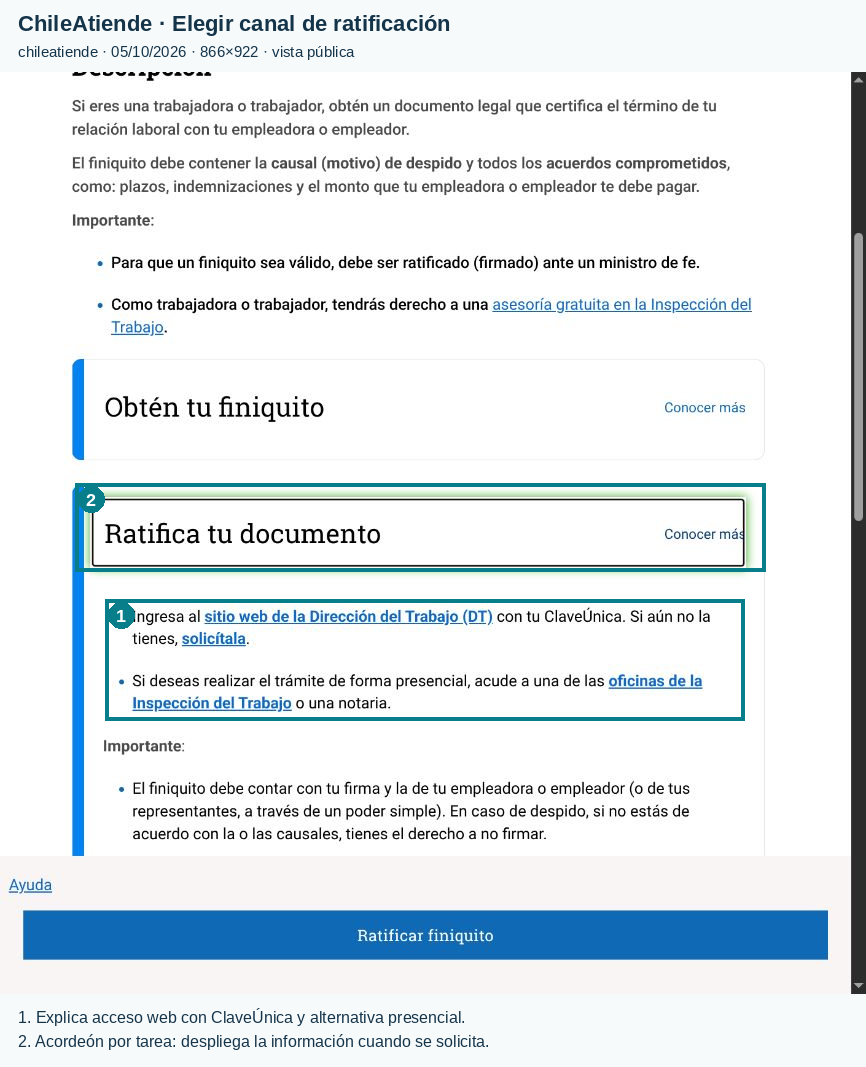
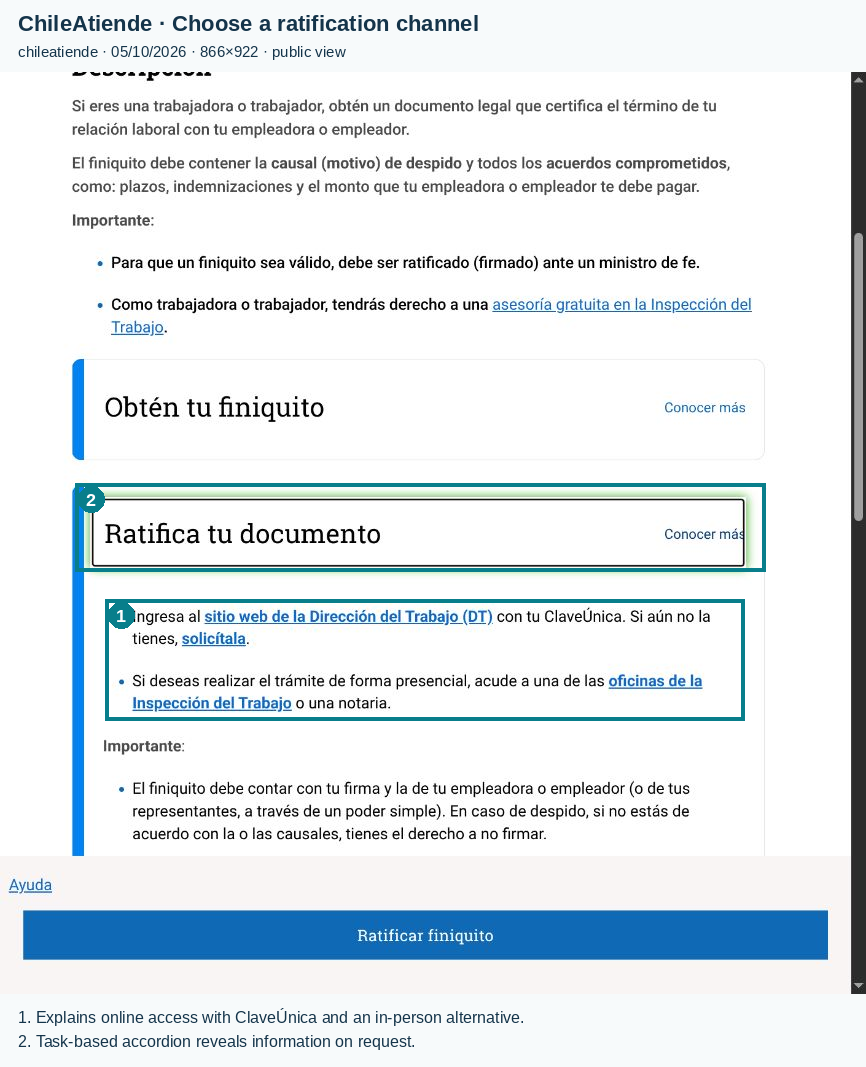
fix: translate benchmark visual annotations into English

Changed region(s): [[0.0312, 0.9278, 0.5924, 0.9897], [0.1871, 0.0, 0.5612, 0.0619]]

diff --git a/scripts/generate_artifacts.py b/scripts/generate_artifacts.py
@@ -53,19 +53,19 @@ def save_svg(path, svg):
 
 CAPTURES = {
 'direccion-trabajo': [
- ('DT · Entrada por tipo de usuario', 'https://www.dt.gob.cl/portal/1626/w3-channel.html', [(160,160,680,432,TEAL),(4,61,850,121,RUST)], ['1. Acceso visible para trabajadores: permite reconocerse por perfil.', '2. Aviso de Clave Tributaria: antecede a la tarea del trabajador (H8).']),
- ('DT · Explicación y requisitos del finiquito', 'https://www.dt.gob.cl/portal/1626/w3-article-117245.html', [(45,420,804,518,TEAL),(43,339,803,379,RUST)], ['1. Distingue trámite web y presencial; permite elegir canal.', '2. «Ministro de fe» aparece sin explicación inmediata (H2).']),
- ('DT · Ayuda y fundamento normativo', 'https://www.dt.gob.cl/portal/1626/w3-article-117245.html', [(40,325,810,428,TEAL),(38,450,810,517,TEAL)], ['1. Ofrece consulta y teléfono: puente visible a atención humana.', '2. Vincula el artículo aplicable, aunque al final de la ficha extensa.'])
+ ('DT · Entry by user profile', 'https://www.dt.gob.cl/portal/1626/w3-channel.html', [(160,160,680,432,TEAL),(4,61,850,121,RUST)], ['1. Visible worker entry helps users recognize their profile.', '2. Tax credential notice appears before the worker task (H8).']),
+ ('DT · Settlement explanation and requirements', 'https://www.dt.gob.cl/portal/1626/w3-article-117245.html', [(45,420,804,518,TEAL),(43,339,803,379,RUST)], ['1. Separates online and in-person procedures to support channel choice.', '2. The term for an attesting official lacks an immediate explanation (H2).']),
+ ('DT · Help and legal evidence', 'https://www.dt.gob.cl/portal/1626/w3-article-117245.html', [(40,325,810,428,TEAL),(38,450,810,517,TEAL)], ['1. Consultation and phone options provide a visible route to human help.', '2. Links the relevant article, but at the end of a long information page.'])
 ],
 'suseso': [
- ('SUSESO · Acción y seguimiento separados', 'https://www.suseso.gob.cl/606/w3-propertyvalue-610.html', [(28,294,838,406,TEAL),(15,772,838,901,TEAL)], ['1. Reclamar y seguir un reclamo se presentan como tareas distintas.', '2. El orientador explica que prepara antecedentes para el reclamo.']),
- ('SUSESO · Orientación por perfil', 'https://www.suseso.gob.cl/606/w3-propertyname-509.html', [(15,319,835,374,TEAL),(15,166,835,194,TEAL)], ['1. Permite elegir la orientación para trabajadores antes del motivo.', '2. La ruta visible ayuda a reconocer la ubicación en el sitio.']),
- ('SUSESO · Clasificar el problema de licencia', 'https://www.suseso.gob.cl/606/w3-propertyvalue-586.html', [(19,363,834,419,RUST),(765,463,852,541,RUST)], ['1. «Pronunciada por COMPIN» exige vocabulario institucional (H2).', '2. Los controles de texto cubren parte de «Volver» en esta vista (H3/H8).'])
+ ('SUSESO · Separate action and tracking', 'https://www.suseso.gob.cl/606/w3-propertyvalue-610.html', [(28,294,838,406,TEAL),(15,772,838,901,TEAL)], ['1. Filing and tracking a complaint are presented as separate tasks.', '2. The guidance tool explains its role in preparing complaint evidence.']),
+ ('SUSESO · Guidance by profile', 'https://www.suseso.gob.cl/606/w3-propertyname-509.html', [(15,319,835,374,TEAL),(15,166,835,194,TEAL)], ['1. Worker guidance can be selected before the reason for the request.', '2. The visible navigation path helps identify the current location.']),
+ ('SUSESO · Classify the medical leave problem', 'https://www.suseso.gob.cl/606/w3-propertyvalue-586.html', [(19,363,834,419,RUST),(765,463,852,541,RUST)], ['1. Wording about a COMPIN decision requires institutional vocabulary (H2).', '2. Text controls partly cover Back in this view (H3/H8).'])
 ],
 'chileatiende': [
- ('ChileAtiende · Ficha y acción principal', 'https://www.chileatiende.gob.cl/fichas/33522', [(69,348,770,390,TEAL),(1,784,846,918,RUST)], ['1. Muestra actualización: hace visible la fecha del contenido.', '2. «Ratificar» domina sobre «Ayuda» antes de verificar el caso (H5/H8).']),
- ('ChileAtiende · Elegir canal de ratificación', 'https://www.chileatiende.gob.cl/fichas/33522', [(105,527,744,648,TEAL),(75,411,765,499,TEAL)], ['1. Explica acceso web con ClaveÚnica y alternativa presencial.', '2. Acordeón por tarea: despliega la información cuando se solicita.']),
- ('ChileAtiende · Red de atención', 'https://www.chileatiende.gob.cl/red-de-atencion', [(14,425,835,689,TEAL),(1,1,846,65,RUST)], ['1. Tarjetas comparan videoatención, teléfono y formulario por canal.', '2. Cabecera y tipografía cambian respecto de la ficha CA01 (H4).'])
+ ('ChileAtiende · Information and primary action', 'https://www.chileatiende.gob.cl/fichas/33522', [(69,348,770,390,TEAL),(1,784,846,918,RUST)], ['1. The displayed update makes the content date visible.', '2. Ratify dominates Help before the case has been verified (H5/H8).']),
+ ('ChileAtiende · Choose a ratification channel', 'https://www.chileatiende.gob.cl/fichas/33522', [(105,527,744,648,TEAL),(75,411,765,499,TEAL)], ['1. Explains online access with ClaveÚnica and an in-person alternative.', '2. Task-based accordion reveals information on request.']),
+ ('ChileAtiende · Service network', 'https://www.chileatiende.gob.cl/red-de-atencion', [(14,425,835,689,TEAL),(1,1,846,65,RUST)], ['1. Cards compare video, phone, and form-based service channels.', '2. Header and typography differ from the CA01 information page (H4).'])
 ]}
 
 
@@ -80,7 +80,7 @@ def annotate_captures():
             result.paste(source,(0,72))
             draw=ImageDraw.Draw(result)
             draw.text((18,11),title,font=ImageFont.truetype(BOLD,22),fill=NAVY)
-            draw.text((18,43),f'{tool} · 05/10/2026 · {width}×{height} · vista pública',font=ImageFont.truetype(FONT,15),fill=NAVY)
+            draw.text((18,43),f'{tool} · 05/10/2026 · {width}×{height} · public view',font=ImageFont.truetype(FONT,15),fill=NAVY)
             for number,(left,top,right,bottom,color) in enumerate(boxes,1):
                 draw.rectangle((left,top+72,right,bottom+72),outline=color,width=4)
                 draw.ellipse((left+3,top+75,left+29,top+101),fill=color)
@@ -96,25 +96,25 @@ def annotate_captures():
 
 
 FEATURES = [
- ('Consulta pública sin cuenta','Consulta y ficha laboral','Orientador público','Ficha informativa','Entrada por situación','Estándar observado'),
- ('Organización por necesidad','Rol y temas laborales','Perfil y motivo','Ficha por trámite','Tres situaciones iniciales','Estándar observado'),
- ('Canal humano u oficial','SUAC, teléfono, oficina','Reclamo y oficinas','Red de atención','Destino según materia','Estándar observado'),
- ('Preparar antecedentes','Requisitos del finiquito','Orientador del reclamo','Instrucciones por tarea','Checklist del caso','Estándar documentado'),
- ('Fundamento de la orientación','Artículo en ficha DT','Compendio vinculado*','Institución y ficha','Fuente por afirmación','Implementación variable'),
- ('Estado de una gestión formal','Seguimiento documentado*','Botón seguimiento','Mi ChileAtiende*','Solo comprobante externo','Diferenciadora'),
- ('Estimación de un beneficio','Fuera de esta muestra','Simulador SIL*','Fuera de esta muestra','Sin cálculo universal','Diferenciadora'),
- ('Verificación contextual','No observada integrada','No observada integrada','No observada integrada','Datos faltantes + respaldo','Oportunidad hipotética'),
- ('Límite en cada respuesta','No observado conversacional','SIL declara estimación*','No observado conversacional','Explicación de alcance','Oportunidad hipotética'),
- ('Resumen para derivación','No observado integrado','Antecedentes por motivo','Instrucciones generales','Preguntas y pendientes','Oportunidad hipotética')
+ ('Public access without account','Labor guidance pages','Public guidance tool','Information pages','Situation-based entry','Observed baseline'),
+ ('Organization by need','Role and labor topics','Profile and reason','Procedure information','Three initial situations','Observed baseline'),
+ ('Human or official channel','SUAC, phone, office','Complaints and offices','Service network','Subject-based referral','Observed baseline'),
+ ('Prepare supporting evidence','Settlement requirements','Complaint guidance','Task instructions','Case checklist','Documented baseline'),
+ ('Basis for guidance','Article linked in page','Compendium linked*','Institution and page','Source for each claim','Varies by service'),
+ ('Formal procedure status','Documented tracking*','Tracking button','Mi ChileAtiende*','External receipt only','Distinctive feature'),
+ ('Benefit estimate','Outside this sample','SIL simulator*','Outside this sample','No universal calculation','Distinctive feature'),
+ ('Contextual verification','Not observed integrated','Not observed integrated','Not observed integrated','Missing data + evidence','Hypothesized opportunity'),
+ ('Limit for each answer','No dialogue observed','SIL declares estimate*','No dialogue observed','Explain scope','Hypothesized opportunity'),
+ ('Referral summary','Not observed integrated','Evidence by reason','General instructions','Questions and next steps','Hypothesized opportunity')
 ]
 
 
 def create_feature_map():
     content=rect(0,0,1800,1450,'#F7FAFB')+rect(0,0,1800,145,NAVY)
-    content+=text_block(40,55,'Benchmark · Mapa comparativo de funcionalidades',1720,36,'#FFFFFF',True)
-    content+=text_block(40,101,'Orientación laboral con IA verificada · Muestra de tres herramientas · 05 OCT 2026',1720,24,'#CDE6EE')
+    content+=text_block(40,55,'Benchmark · Feature comparison map',1720,36,'#FFFFFF',True)
+    content+=text_block(40,101,'Verified AI-assisted labor guidance · Three-service sample · OCT 05, 2026',1720,24,'#CDE6EE')
     widths=[380,270,270,270,270,260]
-    headers=['Funcionalidad','Dirección del Trabajo','SUSESO','ChileAtiende','Propuesta del grupo','Lectura de la muestra']
+    headers=['Feature','Labor Directorate (DT)','SUSESO','ChileAtiende','Team proposal','Sample interpretation']
     x=40
     for width,header in zip(widths,headers):
         content+=rect(x,175,width,75,TEAL)
@@ -127,11 +127,11 @@ def create_feature_map():
             content+=rect(x,y,width,98,color,'#D4E0E6')
             content+=text_block(x+12,y+29,cell,width-24,23,TEAL if j==4 else NAVY,j==0,max_lines=3)
             x+=width
-    content+=text_block(40,1279,'* Función documentada en fuentes oficiales; no se completó el flujo autenticado ni el simulador.',1720,23)
-    content+=text_block(40,1320,'«No observada» se limita a las pantallas revisadas: no demuestra que una función no exista en el producto.',1720,23)
-    content+=text_block(40,1361,'«Estándar» describe esta muestra. Oportunidades y propuesta requieren validación con usuarios y con el equipo.',1720,23)
-    content+=text_block(40,1402,'Trazabilidad y fuentes: benchmark/README.md y tabla-comparativa.md. La propuesta todavía no está implementada.',1720,22)
-    save_svg(ROOT/'benchmark/feature-map.svg',svg_document(1800,1450,content,'Mapa comparativo de funcionalidades del benchmarking'))
+    content+=text_block(40,1279,'* Documented in official sources; authenticated flows and the simulator were not completed.',1720,23)
+    content+=text_block(40,1320,'Unobserved refers only to reviewed screens; it does not establish that a feature is absent from the product.',1720,23)
+    content+=text_block(40,1361,'Baseline describes this sample. Opportunities and the proposal require user and team validation.',1720,23)
+    content+=text_block(40,1402,'Evidence and sources: benchmark/README.md and tabla-comparativa.md. The proposal is not yet implemented.',1720,22)
+    save_svg(ROOT/'benchmark/feature-map.svg',svg_document(1800,1450,content,'Benchmark feature comparison map'))
 
 
 if __name__ == '__main__':
